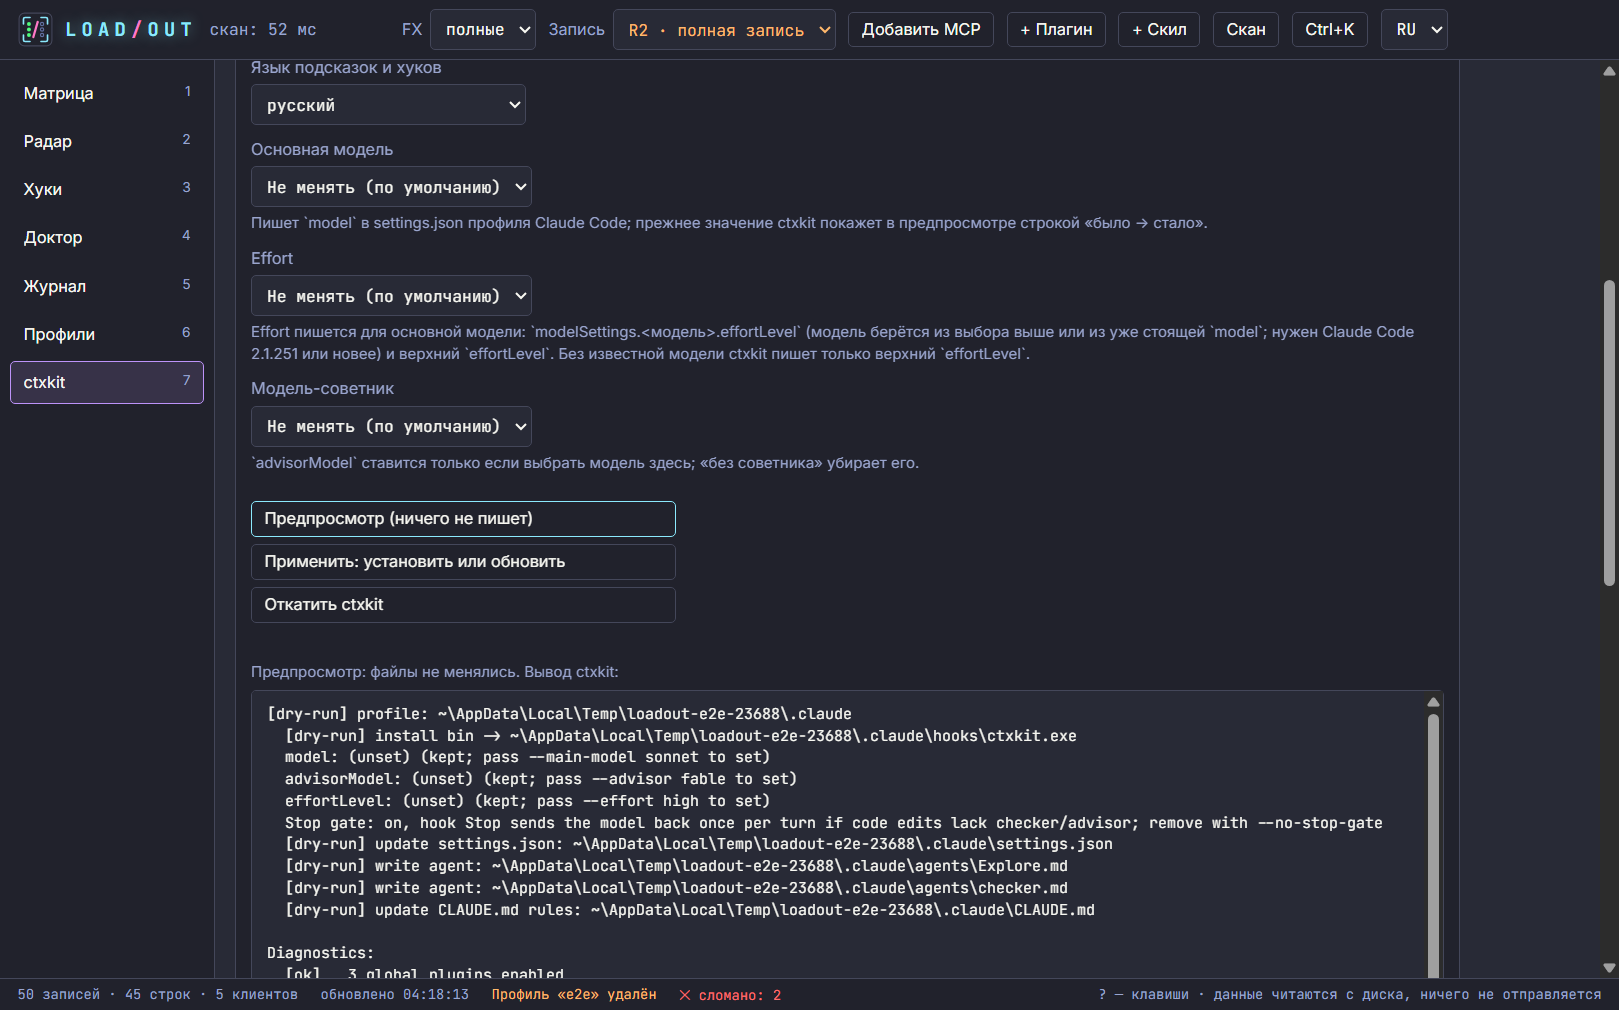
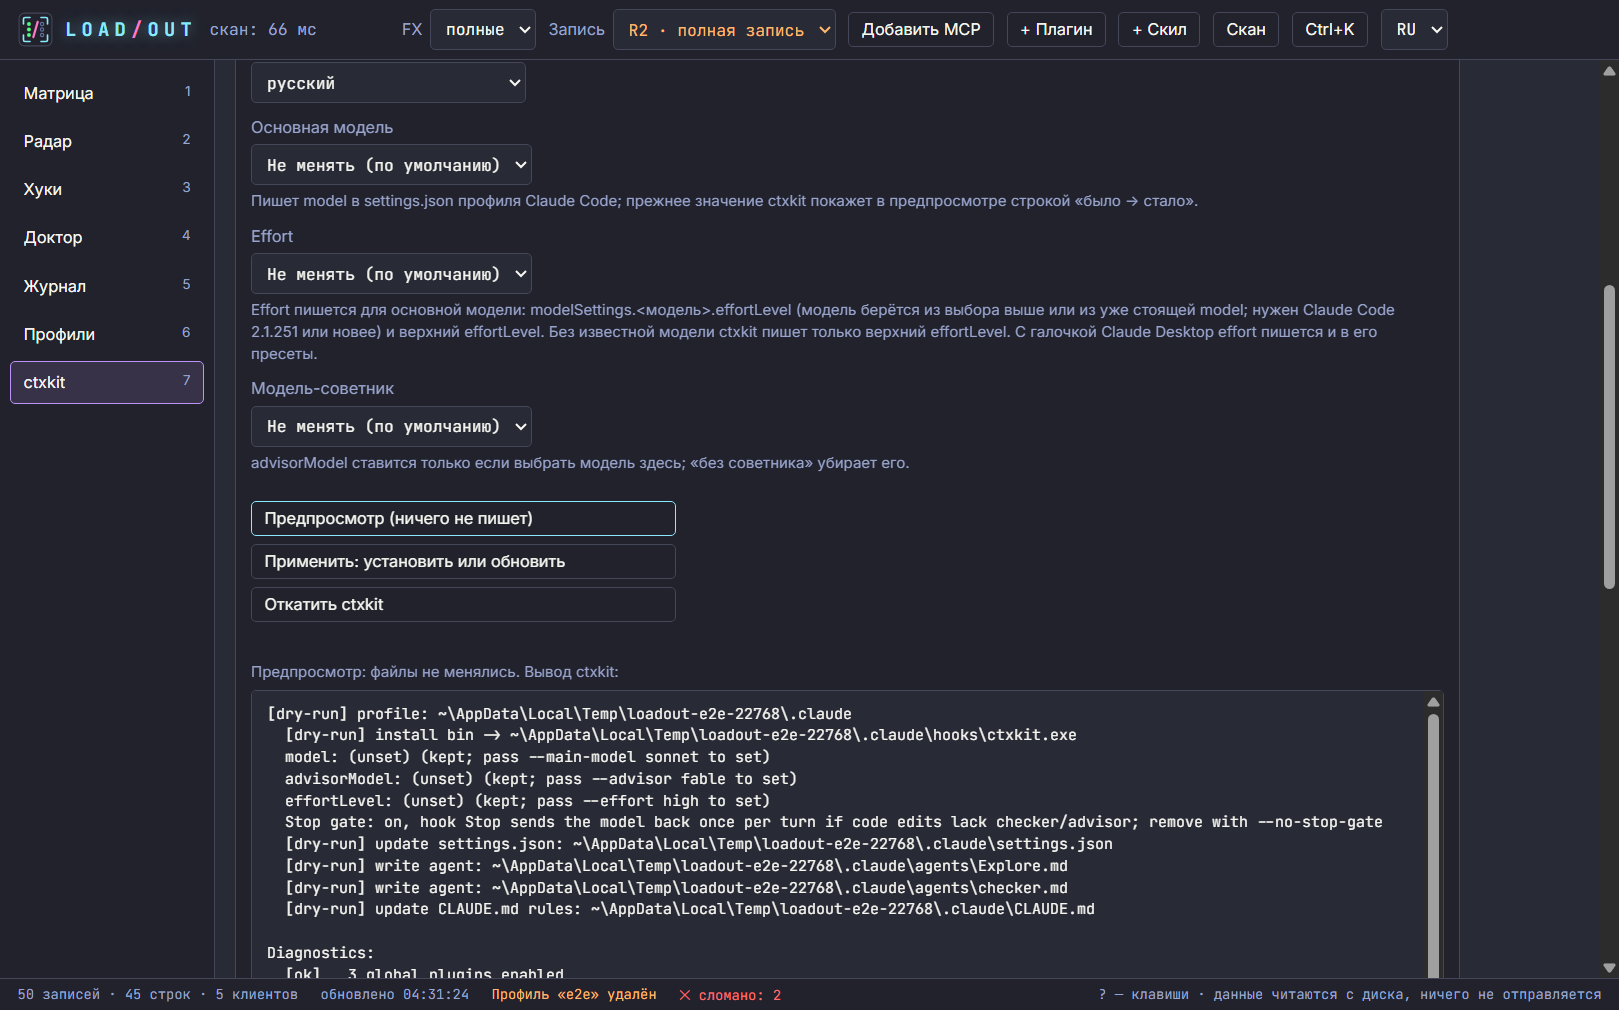
ctxkit form after review comments: status is re-read even on a non-zero code, preview is cleared on any run, focus after rollback, hints without backticks, e2e: focus, axe, rollback integrations

diff --git a/app/src/renderer/views/Ctxkit.tsx b/app/src/renderer/views/Ctxkit.tsx
@@ -1,4 +1,4 @@
-import { useCallback, useEffect, useState } from 'react'
+import { useCallback, useEffect, useRef, useState } from 'react'
 import type { CtxkitDoctor, CtxkitReport, CtxkitStatus, FindingSeverity, SetupOptions, SetupResult, WriteLevel } from '../../shared/model'
 import { getLang, t } from '../../shared/i18n'
 import { chars, daysDesc, pct, segments, stopGateOff, summarize } from '../ctxkit-stats'
@@ -88,6 +88,13 @@ export function Ctxkit({ level, onNotice }: Props) {
   const [previewKey, setPreviewKey] = useState<string | null>(null)
   const [result, setResult] = useState<(SetupResult & { kind: 'setup' | 'uninstall' }) | null>(null)
   const [busy, setBusy] = useState<Busy | null>(null)
+  const undoPreviewRef = useRef<HTMLButtonElement>(null)
+  const [refocus, setRefocus] = useState(false)
+  useEffect(() => {
+    if (!refocus || busy) return
+    undoPreviewRef.current?.focus() // красная кнопка исчезла вместе с фокусом
+    setRefocus(false)
+  }, [refocus, busy])
   const [error, setError] = useState<string | null>(null)
 
   // Галочка шлюза Stop берёт начальное значение из профиля (шлюз выключен — «Применить» не должен молча включить его),
@@ -111,22 +118,27 @@ export function Ctxkit({ level, onNotice }: Props) {
     async (kind: 'setup' | 'uninstall', dryRun: boolean) => {
       setBusy(kind === 'setup' ? (dryRun ? 'preview' : 'apply') : dryRun ? 'undoPreview' : 'undo')
       setError(null)
+      setPreviewKey(null) // и предпросмотр, и действие расходуют прежний предпросмотр (main делает так же)
       const call = kind === 'setup' ? window.loadout.ctxkitSetup(opts, dryRun) : window.loadout.ctxkitUninstall({ antigravity: opts.antigravity, dsh: opts.dsh }, dryRun)
       const r = await call.catch((e: unknown) => ({ ok: false as const, error: e instanceof Error ? e.message : t('не удалось', 'failed') }))
       setBusy(null)
       if (!r.ok) return setError(r.error)
       setResult({ ...r.data, kind })
+      // настоящий запуск мог записать часть файлов и при ненулевом коде: статус и диагностику перечитываем в любом случае
+      if (!dryRun) {
+        reloadStatus()
+        reloadDoctor()
+      }
       if (r.data.code !== 0) return setError(t(`ctxkit вышел с кодом ${r.data.code}: подробности в выводе ниже`, `ctxkit exited with code ${r.data.code}: see the output below`))
       if (dryRun) setPreviewKey(kind === 'setup' ? key : undoKey)
       else {
-        setPreviewKey(null)
         onNotice(
           kind === 'setup'
             ? t('ctxkit применён: хуки и настройки записаны, бэкапы ctxkit лежат в ~/.claude/backups', 'ctxkit applied: hooks and settings written, ctxkit backups are in ~/.claude/backups')
-            : t('ctxkit откачен: хуки, блок правил и бинарь убраны; модель, советник, effort, пресеты и агенты оставлены (список и бэкап в выводе)', 'ctxkit rolled back: hooks, rules block and binary removed; model, advisor, effort, presets and agents left as is (list and backup in the output)'),
+            : t('Откат ctxkit выполнен: хуки и блок правил убраны, бинарь смотрите в блоке «Установка»; модель, советник, effort, пресеты и агенты оставлены (список и бэкап в выводе)', 'ctxkit rollback done: hooks and rules block removed, see “Installation” for the binary; model, advisor, effort, presets and agents left as is (list and backup in the output)'),
         )
-        reloadStatus()
-        reloadDoctor()
+        // красная кнопка исчезает вместе с фокусом: возвращаем его на кнопку предпросмотра отката
+        if (kind === 'uninstall') setRefocus(true)
       }
     },
     [opts, key, undoKey, onNotice, reloadStatus, reloadDoctor],
@@ -197,7 +209,7 @@ export function Ctxkit({ level, onNotice }: Props) {
               <option value="opus">Opus</option>
               <option value="haiku">Haiku</option>
             </select>
-            <span id="ctx-main-hint" className="mute small">{t('Пишет `model` в settings.json профиля Claude Code; прежнее значение ctxkit покажет в предпросмотре строкой «было -> стало».', 'Writes `model` into the Claude Code profile settings.json; ctxkit shows the previous value in the preview as a “was -> became” line.')}</span>
+            <span id="ctx-main-hint" className="mute small">{t('Пишет model в settings.json профиля Claude Code; прежнее значение ctxkit покажет в предпросмотре строкой «было -> стало».', 'Writes model into the Claude Code profile settings.json; ctxkit shows the previous value in the preview as a “was -> became” line.')}</span>
           </div>
           <div className="field">
             <label htmlFor="ctx-effort">Effort</label>
@@ -208,7 +220,7 @@ export function Ctxkit({ level, onNotice }: Props) {
               <option value="high">high</option>
               <option value="xhigh">xhigh</option>
             </select>
-            <span id="ctx-effort-hint" className="mute small">{t('Effort пишется для основной модели: `modelSettings.<модель>.effortLevel` (модель берётся из выбора выше или из уже стоящей `model`; нужен Claude Code 2.1.251 или новее) и верхний `effortLevel`. Без известной модели ctxkit пишет только верхний `effortLevel`.', 'Effort is written for the main model: `modelSettings.<model>.effortLevel` (the model comes from the choice above or from the `model` already set; needs Claude Code 2.1.251 or newer) and the top-level `effortLevel`. Without a known model ctxkit writes only the top-level `effortLevel`.')}</span>
+            <span id="ctx-effort-hint" className="mute small">{t('Effort пишется для основной модели: modelSettings.<модель>.effortLevel (модель берётся из выбора выше или из уже стоящей model; нужен Claude Code 2.1.251 или новее) и верхний effortLevel. Без известной модели ctxkit пишет только верхний effortLevel. С галочкой Claude Desktop effort пишется и в его пресеты.', 'Effort is written for the main model: modelSettings.<model>.effortLevel (the model comes from the choice above or from the model already set; needs Claude Code 2.1.251 or newer) and the top-level effortLevel. Without a known model ctxkit writes only the top-level effortLevel. With the Claude Desktop checkbox effort is written into its presets too.')}</span>
           </div>
           <div className="field">
             <label htmlFor="ctx-advisor">{t('Модель-советник', 'Advisor model')}</label>
@@ -218,7 +230,7 @@ export function Ctxkit({ level, onNotice }: Props) {
               <option value="opus">Opus</option>
               <option value="none">{t('без советника', 'no advisor')}</option>
             </select>
-            <span id="ctx-advisor-hint" className="mute small">{t('`advisorModel` ставится только если выбрать модель здесь; «без советника» убирает его.', '`advisorModel` is set only if you pick a model here; “no advisor” removes it.')}</span>
+            <span id="ctx-advisor-hint" className="mute small">{t('advisorModel ставится только если выбрать модель здесь; «без советника» убирает его.', 'advisorModel is set only if you pick a model here; “no advisor” removes it.')}</span>
           </div>
           <div className="actions col">
             <button type="submit" disabled={!!busy} aria-busy={busy === 'preview'}>
@@ -233,7 +245,7 @@ export function Ctxkit({ level, onNotice }: Props) {
             >
               {spin('apply', t('Применяю…', 'Applying…')) ?? t('Применить: установить или обновить', 'Apply: install or update')}
             </button>
-            <button type="button" disabled={!!busy} aria-busy={busy === 'undoPreview'} onClick={() => void run('uninstall', true)}>
+            <button type="button" ref={undoPreviewRef} disabled={!!busy} aria-busy={busy === 'undoPreview'} title={t('Показать, что уберёт откат (ничего не пишет)', 'Show what the rollback would remove (writes nothing)')} onClick={() => void run('uninstall', true)}>
               {spin('undoPreview', t('Считаю…', 'Working…')) ?? t('Откатить ctxkit', 'Roll back ctxkit')}
             </button>
             {previewKey === undoKey || busy === 'undo' ? (
